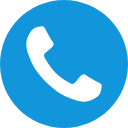
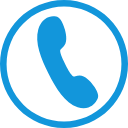
finally version

diff --git a/js/search.js b/js/search.js
@@ -17,14 +17,89 @@ $('#searchButton').click(() => {
 			let pois = SearchResult.poiList.pois[0].location;
 			let startLng = pois.lng;
 			let startLat = pois.lat;
+			let lnglatXY = [startLng,startLat];
 			map.setZoom(13),
 				map.setCenter(pois)
 			var markerNow = new AMap.Marker({
 				position: new AMap.LngLat(pois.lng, pois.lat)
 			});
 			map.add(markerNow);
+			getCity(lnglatXY).then(city => { 
+				$.ajax({
+					url: 'http://101.201.108.106:8127/findAdminStroe?city=' + city,
+					dataType: 'json',
+					success: (data) => {
+						let datas = data.data;
+						let lnglats = [];
+						datas.map((value, index) => {
+							lnglats.push([value.longitude, value.latitude])
+						})
+						// console.log(lnglats)
+						for (let i = 0, marker; i < lnglats.length; i++) {
+							marker = new AMap.Marker({
+								position: lnglats[i],
+								map: map,
+								icon: new AMap.Icon({            
+									image: './images/result.png',
+									size: new AMap.Size(32, 32),  //图标大小
+									imageSize: new AMap.Size(32,32)
+								})  // 添加 Icon 图标 URL
+							});
+							var walking = new AMap.Walking({
+								map: map,
+								autoFitView: true,
+							});
+	
+							marker.on('click', function markerClick(e) {
+								$('.detail').css('display', 'block');
+								walking.clear(); //清除上一次规划路线
+								let endLng = e.lnglat.lng;
+								let endLat = e.lnglat.lat;
+								console.log(startLng, startLat, endLng, endLat)
+								$('.storeName div>.title').html(datas[i].name);
+								$('.location').html(datas[i].address);
+								$('.storeName .phone').attr('href', 'tel:' + datas[i].phone);
+								// 根据起终点经纬度规划步行导航路线
+	
+								walking.search([startLng, startLat], [endLng, endLat]);
+								//  $('.storeName .map').attr('href',`http://uri.amap.com/navigation?from=${startLng},${startLat}&to=${endLng},${endLat}&mode=walk&policy=1&src=mypage&coordinate=gaode&callnative=0`);
+								$('.storeName .map').click(() => {
+	
+									walking.searchOnAMAP({
+										origin: [startLng, startLat],
+										destination: [endLng, endLat]
+									})
+								})
+							})
+							map.add(marker);
+						}
+					}
+				})
+			})
+		} else {
+			Dialog.init('搜索地点不存在,请更换搜索关键词', 2000);
+		}
+	});
+})
+
+// 选中某一条下拉提示时触发
+AMap.event.addListener(autoComplete, "select", select); //注册监听，当选中某条记录时会触发
+function select(e) {
+	map.clearMap();
+	let startLng = e.poi.location.lng;
+	let startLat = e.poi.location.lat;
+	let lnglatXY = [startLng,startLat];
+	// 获取当前城市
+	if (e.poi && e.poi.location) {
+		map.setZoom(13),
+			map.setCenter(e.poi.location)
+		var markerNow = new AMap.Marker({
+			position: new AMap.LngLat(e.poi.location.lng, e.poi.location.lat)
+		});
+		map.add(markerNow);
+		getCity(lnglatXY).then(city => {
 			$.ajax({
-				url: 'http://101.201.108.106:8127/findAdminStroe?city' + city,
+				url: 'http://101.201.108.106:8127/findAdminStroe?city=' + city,
 				dataType: 'json',
 				success: (data) => {
 					let datas = data.data;
@@ -37,13 +112,18 @@ $('#searchButton').click(() => {
 						marker = new AMap.Marker({
 							position: lnglats[i],
 							map: map,
-							icon: './images/result.png', // 添加 Icon 图标 URL
+							// icon: './images/result.png', // 添加 Icon 图标 URL
+							icon: new AMap.Icon({            
+								image: './images/result.png',
+								size: new AMap.Size(32, 32),  //图标大小
+								imageSize: new AMap.Size(32,32)
+							}) 
 						});
 						var walking = new AMap.Walking({
 							map: map,
 							autoFitView: true,
 						});
-
+	
 						marker.on('click', function markerClick(e) {
 							$('.detail').css('display', 'block');
 							walking.clear(); //清除上一次规划路线
@@ -54,11 +134,10 @@ $('#searchButton').click(() => {
 							$('.location').html(datas[i].address);
 							$('.storeName .phone').attr('href', 'tel:' + datas[i].phone);
 							// 根据起终点经纬度规划步行导航路线
-
+	
 							walking.search([startLng, startLat], [endLng, endLat]);
 							//  $('.storeName .map').attr('href',`http://uri.amap.com/navigation?from=${startLng},${startLat}&to=${endLng},${endLat}&mode=walk&policy=1&src=mypage&coordinate=gaode&callnative=0`);
 							$('.storeName .map').click(() => {
-
 								walking.searchOnAMAP({
 									origin: [startLng, startLat],
 									destination: [endLng, endLat]
@@ -69,93 +148,8 @@ $('#searchButton').click(() => {
 					}
 				}
 			})
-		} else {
-			Dialog.init('搜索地点不存在,请更换搜索关键词', 2000);
-		}
+		})	
 
-
-	});
-})
-function getCity( lnglatXY ){
-	AMap.service('AMap.Geocoder',function(){
-		//实例化Geocoder
-		geocoder = new AMap.Geocoder({
-			city: ""//城市，默认：“全国”
-		});
-		geocoder.getAddress(lnglatXY, function(status, result) {
-			if (status === 'complete' && result.info === 'OK') {
-				city = result.regeocode.addressComponent.city;
-				if(  city === ""){
-					Dialog.init('暂不支持该地区查询', 2000);
-				}
-			}else{
-				// Dialog.init('获取位置失败,请重试', 2000);
-			}
-		});
-	})
-	return city;
-}
-// 选中某一条下拉提示时触发
-AMap.event.addListener(autoComplete, "select", select); //注册监听，当选中某条记录时会触发
-function select(e) {
-	map.clearMap();
-	let startLng = e.poi.location.lng;
-	let startLat = e.poi.location.lat;
-	let lnglatXY = [startLng,startLat];
-	// 获取当前城市
-
-	if (e.poi && e.poi.location) {
-		map.setZoom(13),
-			map.setCenter(e.poi.location)
-		var markerNow = new AMap.Marker({
-			position: new AMap.LngLat(e.poi.location.lng, e.poi.location.lat)
-		});
-		map.add(markerNow);
-		$.ajax({
-			url: 'http://101.201.108.106:8127/findAdminStroe?city=' + city,
-			dataType: 'json',
-			success: (data) => {
-				let datas = data.data;
-				let lnglats = [];
-				datas.map((value, index) => {
-					lnglats.push([value.longitude, value.latitude])
-				})
-				// console.log(lnglats)
-				for (let i = 0, marker; i < lnglats.length; i++) {
-					marker = new AMap.Marker({
-						position: lnglats[i],
-						map: map,
-						icon: './images/result.png', // 添加 Icon 图标 URL
-					});
-					var walking = new AMap.Walking({
-						map: map,
-						autoFitView: true,
-					});
-
-					marker.on('click', function markerClick(e) {
-						$('.detail').css('display', 'block');
-						walking.clear(); //清除上一次规划路线
-						let endLng = e.lnglat.lng;
-						let endLat = e.lnglat.lat;
-						console.log(startLng, startLat, endLng, endLat)
-						$('.storeName div>.title').html(datas[i].name);
-						$('.location').html(datas[i].address);
-						$('.storeName .phone').attr('href', 'tel:' + datas[i].phone);
-						// 根据起终点经纬度规划步行导航路线
-
-						walking.search([startLng, startLat], [endLng, endLat]);
-						//  $('.storeName .map').attr('href',`http://uri.amap.com/navigation?from=${startLng},${startLat}&to=${endLng},${endLat}&mode=walk&policy=1&src=mypage&coordinate=gaode&callnative=0`);
-						$('.storeName .map').click(() => {
-							walking.searchOnAMAP({
-								origin: [startLng, startLat],
-								destination: [endLng, endLat]
-							})
-						})
-					})
-					map.add(marker);
-				}
-			}
-		})
 
 	}
 }

diff --git a/js/location.js b/js/location.js
@@ -13,63 +13,84 @@ window.dialog =  Dialog.init('正在定位,请稍后')
 	 showButton: false, //是否现实组件的定位按钮
 	 timeout: 5000, //浏览器定位超时时间5s
 	 
- });
+});
+function getCity(lnglatXY) {
+	return new Promise(function (reslove, reject) {
+	let newcity = '';
+	AMap.service('AMap.Geocoder',function(){
+		//实例化Geocoder
+		geocoder = new AMap.Geocoder({
+			city: ""//城市，默认：“全国”
+		});
+		geocoder.getAddress(lnglatXY, function (status, result) {
+			if (status === 'complete' && result.info === 'OK') {
+				newcity = result.regeocode.addressComponent.city || result.regeocode.addressComponent.province;
+				reslove(newcity)
+			}else{
+				Dialog.init('该地区暂不支持', 2000);
+			}
+		});
+	 })
+	})
+}
 	map.addControl(geolocation);
 	geolocation.getCurrentPosition();
 	AMap.event.addListener(geolocation, 'complete', onComplete);//返回定位信息
 	AMap.event.addListener(geolocation, 'error', onError);      //返回定位出错信息
-	function onComplete (data) {
-		Dialog.close(dialog);
+function onComplete(data) {
+	Dialog.close(dialog);
 		let startLng = Math.abs(data.position.lng);
 		let startLat = Math.abs(data.position.lat);
-		$.ajax({
-			url:'../data/mock.json',
-			type:'GET',
-			data:{'lng':startLng,'lat':startLat},
-			dataType:'json',
-			success:(data)=>{
-			   let datas = data.data;
-			   let lnglats = [];
-			   datas.map((value,index)=>{
-				 lnglats.push([value.longitude,value.latitude])
-			   })
-			   for(let i = 0, marker ; i < lnglats.length; i++){
-				   marker=new AMap.Marker({
-						   position:lnglats[i],
-						   map:map,
-						   icon: './images/result.png', // 添加 Icon 图标 URL
-				   }); 
-				   var walking = new AMap.Walking({
-					map: map,
-					autoFitView:true,
-				   }); 
-				   marker.on('click',function markerClick(e){
-					$('.detail').css('display','block');
-					walking.clear();  //清除上一次规划路线
-					let endLng = e.lnglat.lng;
-					let endLat = e.lnglat.lat;
-					console.log(startLng,startLat,endLng,endLat)
-					$('.storeName div>.title').html(datas[i].name);
-					$('.location').html(datas[i].address);
-					$('.storeName .phone').attr('href','tel:'+datas[i].phone);
-                    //进行路线规划，并对返回信息进行处理    
-					walking.search([startLng,startLat], [endLng,endLat],function(){
-						
-					});
-					
-	
-					//  $('.storeName .map').attr('href',`http://uri.amap.com/navigation?from=${startLng},${startLat}&to=${endLng},${endLat}&mode=walk&policy=1&src=mypage&coordinate=gaode&callnative=0`);
-				    $('.storeName .map').click(()=>{
-						walking.searchOnAMAP({
-							origin:[startLng,startLat],
-							destination:[endLng,endLat]
+		let lnglatXY = [startLng, startLat];
+	getCity(lnglatXY).then(city => { 
+            $.ajax({
+				url: 'http://101.201.108.106:8127/findAdminStroe?city=' + city,
+				dataType: 'json',
+				success: (data) => {
+					console.log(data)
+				   let datas = data.data;
+				   let lnglats = [];
+				   datas.map((value,index)=>{
+					 lnglats.push([value.longitude,value.latitude])
+				   })
+				   for(let i = 0, marker ; i < lnglats.length; i++){
+					   marker=new AMap.Marker({
+							   position:lnglats[i],
+							   map:map,
+							//    icon: './images/result.png', // 添加 Icon 图标 URL
+							icon: new AMap.Icon({            
+								image: './images/result.png',
+								size: new AMap.Size(40, 40),  //图标大小
+								imageSize: new AMap.Size(40,40)
+							})           
+					   }); 
+					   var walking = new AMap.Walking({
+						map: map,
+						autoFitView:true,
+					   }); 
+					   marker.on('click',function markerClick(e){
+						$('.detail').css('display','block');
+						walking.clear();  //清除上一次规划路线
+						let endLng = e.lnglat.lng;
+						let endLat = e.lnglat.lat;
+						console.log(startLng,startLat,endLng,endLat)
+						$('.storeName div>.title').html(datas[i].name);
+						$('.location').html(datas[i].address);
+						   $('.storeName .phone').attr('href', 'tel:' + datas[i].phone);
+						   walking.search([startLng, startLat], [endLng, endLat]);   
+						//进行路线规划，并对返回信息进行处理    
+						$('.storeName .map').click(()=>{
+							walking.searchOnAMAP({
+								origin:[startLng,startLat],
+								destination:[endLng,endLat]
+							})
 						})
 					})
-				})
-				  map.add(marker);
-			  }
-			}
-		})
+					  map.add(marker);
+				  }
+				}
+			})
+		})	
     }
 	
 	  function onError (data) {

diff --git a/index.html b/index.html
@@ -32,7 +32,7 @@
             <div>
                 <span class="title"></span>&nbsp;
             </div>
-            <a class="phone" href='tel:17610366710'><img src="./images/phone2.png" alt=""></a>
+            <a class="phone" href='tel:17610366710'><img src="./images/phone.png" alt=""></a>
             <a class="map" id="routePlan"><img src="./images/map.png" alt=""></a>
         </div>
         <div class="location"></div>   <!--地址描述 --> 
